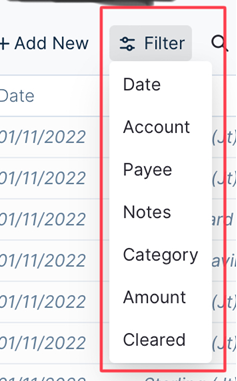
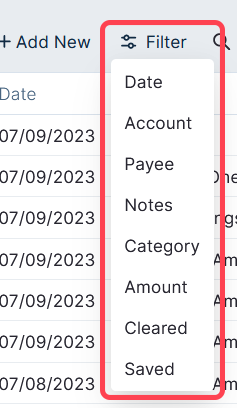
added saved filters section

diff --git a/docs/budgeting/filters.md b/docs/budgeting/filters.md
@@ -8,11 +8,10 @@ Filter is a little known tool in Actual but is really quite a powerhouse. Filter
 
 Inevitably, there are some restrictions but these offer a great opportunity for developers to improve Actual in the future:
 
-1. The filtered searches cannot be saved - so they need to be recreated each time you wish to use them.
-2. The only way to print the filtered results is via a screen shot (unless you save to a spreadsheet as a CSV file first)
-3. The columns of the filtered view cannot yet be sorted. But you can of course export the filtered results to a spreadsheet and play with them to your heart’s content.
-4. Split transactions do not behave well in the filtered view. The non-applicable part of the filtered results can end up getting added into the total.
-5. Filters are just one way of searching and viewing your data. There is still great scope for the future development of graphical style reports in Actual.
+1. The only way to print the filtered results is via a screen shot (unless you save to a spreadsheet as a CSV file first)
+1. The columns of the filtered view cannot yet be sorted. But you can of course export the filtered results to a spreadsheet and play with them to your heart’s content.
+1. Split transactions do not behave well in the filtered view. The non-applicable part of the filtered results can end up getting added into the total.
+1. Filters are just one way of searching and viewing your data. There is still great scope for the future development of graphical style reports in Actual.
 
 ### How to use the Filter tool
 
@@ -39,6 +38,38 @@ There are further options to choose within each area, in order to narrow the Fil
 ![](/img/filtering/conditions-2.png)
 
 ![](/img/filtering/conditions-3.png)
+
+### Saving Filters
+
+Starting with update [27.7.1](https://actualbudget.org/docs/releases/), users now have the ability to save filtered searches. Filtering transactions works exactly the same as in previous updates, as outlined above.
+
+Before we get started, you'll have to go to the **All accounts** page and filter some transactions. See the section **How to use the Filter tool** above for more information on how this works.
+
+To save a search, simply click on the **Unsaved filter** dropdown button above the transactions table and click **Save new filter**.
+
+![](/img/filtering/save-filter.png)
+
+You'll then get a window that asks for you to name the saved filter. Type in whatever you wish the filter to be called and click the **Add** button.
+
+![](/img/filtering/set-filter-name.png)
+
+When you want to re-visit a previously saved filter, go to the **All accounts** tab, click on **Filter**, and select **Saved** in the dropdown.
+
+![](/img/filtering/select-saved-1.png)
+
+A new window should pop-up giving you the ability to select which saved filter you wish to revisit. Simply click on the saved filter or type in the filter's name and click **Apply**.
+
+![](/img/filtering/select-saved-2.png)
+
+The saved budget will then display in the transactions table.
+
+You also have the ability to modify or delete any of your existing saved filters. First, pull up your saved filter. If you wish to make any changes to the saved filter, you can do that now by adding additional filter conditions.
+
+To modify or delete the filter, click on the top-right dropdown menu. It will present you with a few options based on what actions you've taken. If you've modified the saved filter, you'll have the ability to rename, update, revert, delete, or save a new filter based on the criteria you have established. If no changes to the filter were made, you'll have the ability to rename or delete the saved filter entirely.
+
+![](/img/filtering/modify-saved.png)
+
+To clear out the any filtered transactions, click on the dropdown menu in the top-right corner above your transactions table and click **Clear all conditions**.
 
 ### Example
 
